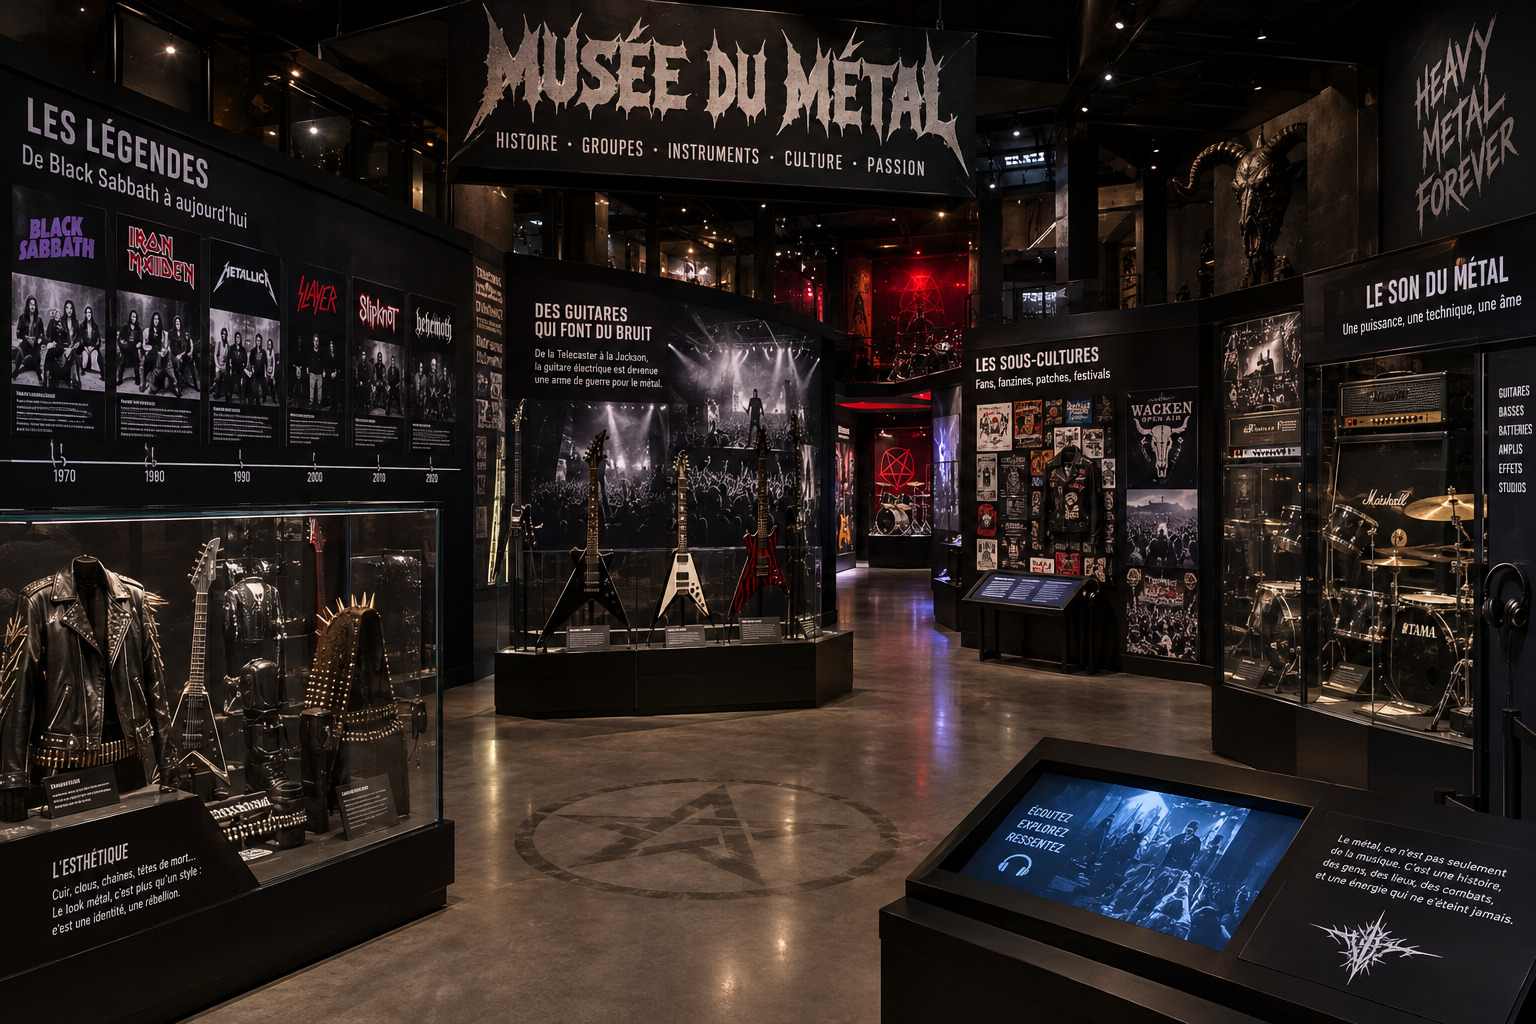
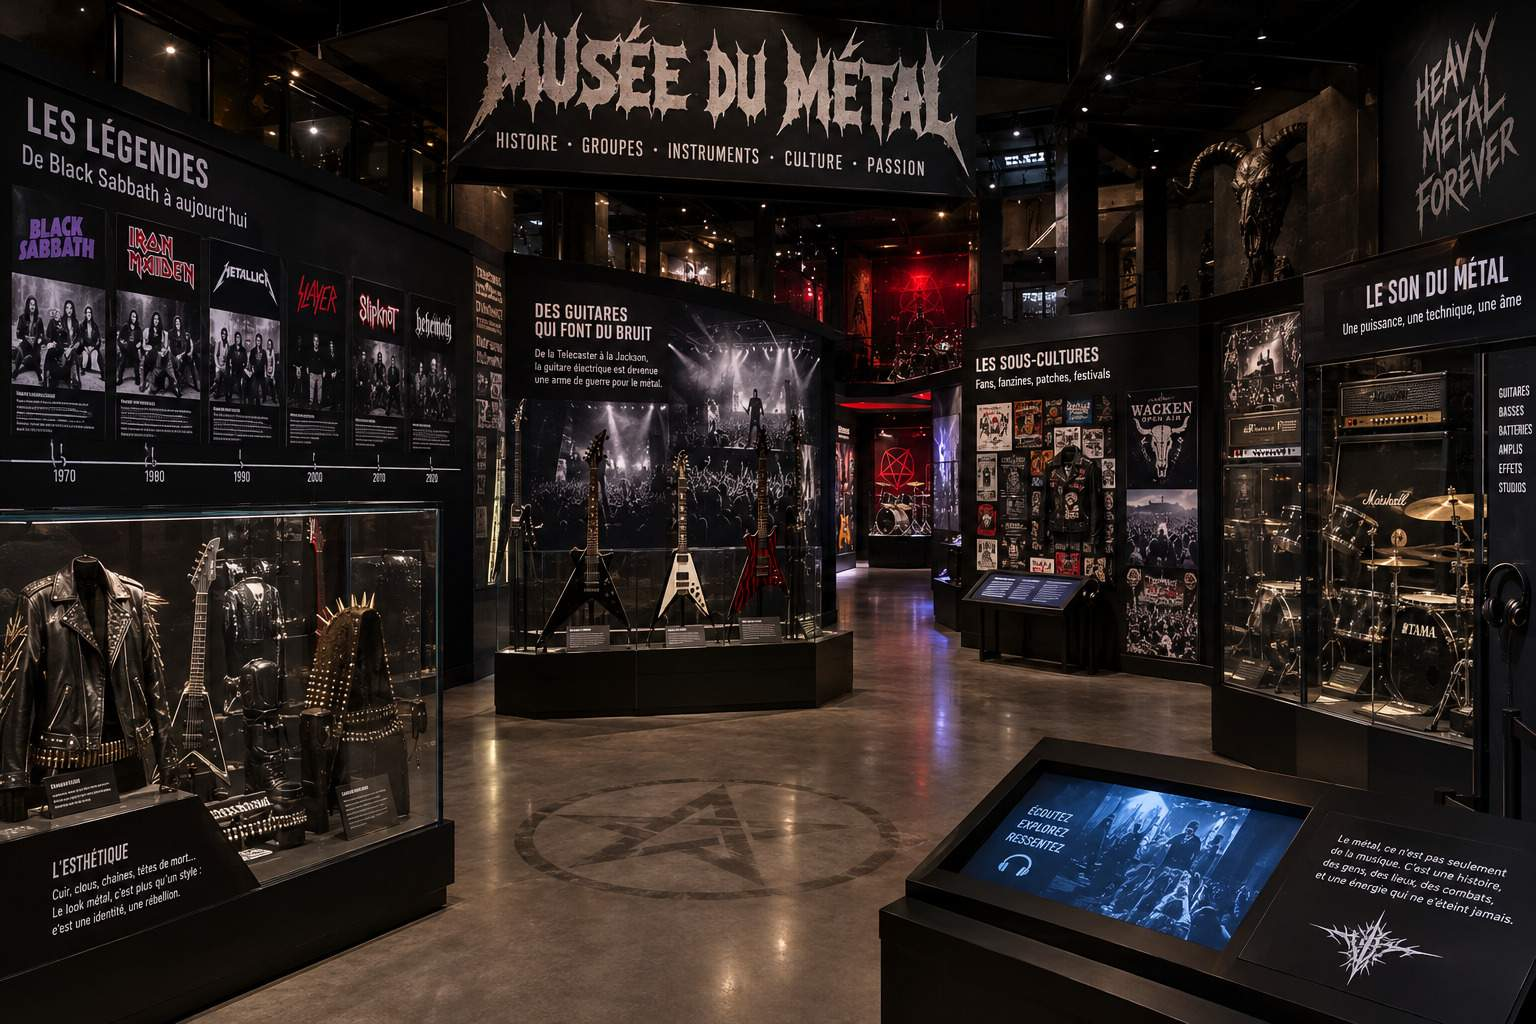
musee : nouveau fond musee2.jpg allege (537 -> 200 Ko)

diff --git a/musee.html b/musee.html
@@ -336,7 +336,7 @@
     </header>
 
     <main>
-        <section id="home" style="background-image: linear-gradient(rgba(0,0,0,0.55), rgba(0,0,0,0.85)), url('images/musee-fond.jpg'); background-position: 50% 50%;">
+        <section id="home" style="background-image: linear-gradient(rgba(0,0,0,0.55), rgba(0,0,0,0.85)), url('images/musee2.jpg'); background-position: 50% 50%;">
             <div class="hero-content">
                 <h1>LE MUSÉE</h1>
                 <p>Les objets qui ont suivi le groupe.</p>
